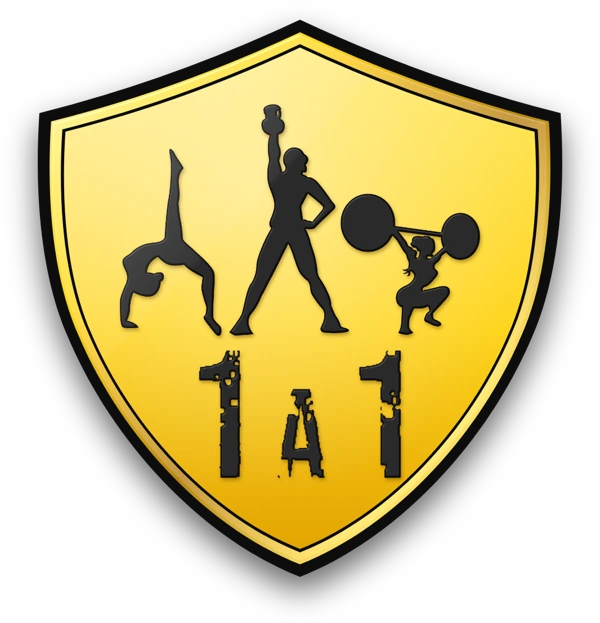
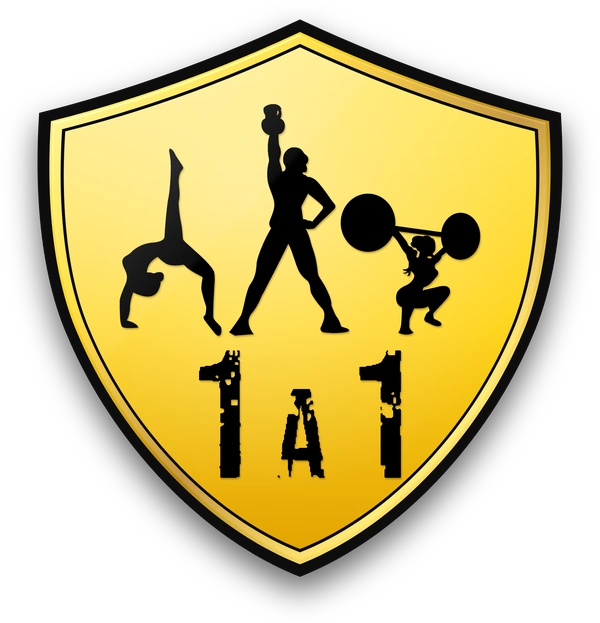
Escudo 1 a 1: figuras y 1 A 1 en negro intenso con silueta nítida
Claude-Session: https://claude.ai/code/session_01NkzjF1AwGu8vPrnnPT5pjp

diff --git a/index.html b/index.html
@@ -1249,14 +1249,14 @@ html,body{overflow-x:clip}
   <mask id="fv-wear" maskUnits="userSpaceOnUse" x="0" y="0" width="1000" height="1100"><rect width="1000" height="1100" fill="#fff"/><image href="fotos/agujeros.png" x="0" y="430" width="1000" height="400" preserveAspectRatio="none"/></mask>
 </defs></svg>
 <div class="fv-st fv-v1"><div class="fv-band"></div><div class="fv-in">
-  <div class="fv-fig"><img src="fotos/escudo-1a1-scuderia.webp?v=1" width="600" height="623" loading="lazy" decoding="async" alt="Escudo 1 a 1: un entrenador, un cliente"></div>
+  <div class="fv-fig"><img src="fotos/escudo-1a1-scuderia.webp?v=2" width="600" height="623" loading="lazy" decoding="async" alt="Escudo 1 a 1: un entrenador, un cliente"></div>
   <div class="fv-grid">
     <div class="fv-it"><div class="fv-n"><b class="fv-gr">140<small>m²</small></b></div><i class="fv-bar"></i><div class="fv-l">y nunca más de<br>2 personas a la vez</div></div>
     <div class="fv-it"><div class="fv-n"><b class="fv-gr">25<small>años</small></b></div><i class="fv-bar"></i><div class="fv-l">de experiencia como<br>entrenador personal</div></div>
     <div class="fv-it"><div class="fv-n"><b class="fv-gr">134</b><span class="fv-st5" role="img" aria-label="5 estrellas"><svg class="fv-s5" viewBox="0 0 24 24" aria-hidden="true"><use href="#fv-star"/></svg><svg class="fv-s5" viewBox="0 0 24 24" aria-hidden="true"><use href="#fv-star"/></svg><svg class="fv-s5" viewBox="0 0 24 24" aria-hidden="true"><use href="#fv-star"/></svg><svg class="fv-s5" viewBox="0 0 24 24" aria-hidden="true"><use href="#fv-star"/></svg><svg class="fv-s5" viewBox="0 0 24 24" aria-hidden="true"><use href="#fv-star"/></svg></span></div><i class="fv-bar"></i><div class="fv-l">reseñas de 5 estrellas<br>en Google</div></div>
     <div class="fv-it"><div class="fv-n"><b class="fv-gr">0</b></div><i class="fv-bar"></i><div class="fv-l">zapatos de la calle<br>en la sala</div></div>
   </div>
-  <div class="fv-fig fv-r"><img src="fotos/escudo-1a1-scuderia.webp?v=1" width="600" height="623" loading="lazy" decoding="async" alt=""></div>
+  <div class="fv-fig fv-r"><img src="fotos/escudo-1a1-scuderia.webp?v=2" width="600" height="623" loading="lazy" decoding="async" alt=""></div>
 </div></div>
 
 

diff --git a/fotos-origen/escudos-1a1-gen.py b/fotos-origen/escudos-1a1-gen.py
@@ -28,6 +28,7 @@ EXTRA = '''
 <linearGradient id="rainbow" x1="0" y1="0" x2="1" y2="0"><stop offset="0" stop-color="#ff2fb3"/><stop offset=".25" stop-color="#b04bff"/><stop offset=".45" stop-color="#18c8ff"/><stop offset=".65" stop-color="#2fe06b"/><stop offset=".82" stop-color="#ffd51f"/><stop offset="1" stop-color="#ff4a3a"/></linearGradient>
 <filter id="emb2" x="-5%" y="-5%" width="110%" height="110%"><feGaussianBlur in="SourceAlpha" stdDeviation="1.5" result="b"/><feSpecularLighting in="b" surfaceScale="3" specularConstant=".6" specularExponent="35" lighting-color="#fff" result="s"><feDistantLight azimuth="235" elevation="55"/></feSpecularLighting><feComposite in="s" in2="SourceAlpha" operator="in" result="s2"/><feComposite in="SourceGraphic" in2="s2" operator="arithmetic" k2="1" k3=".18" result="e"/><feDropShadow dx="2" dy="4" stdDeviation="3" flood-color="#7a5600" flood-opacity=".55"/></filter>
 <radialGradient id="hiH" cx="50%" cy="38%" r="65%"><stop offset="0" stop-color="#fff" stop-opacity=".16"/><stop offset=".6" stop-color="#fff" stop-opacity=".04"/><stop offset="1" stop-color="#000" stop-opacity=".35"/></radialGradient>
+<filter id="crisp" x="-5%" y="-5%" width="110%" height="110%"><feComponentTransfer in="SourceGraphic" result="c"><feFuncA type="linear" slope="1.6" intercept="-.25"/></feComponentTransfer><feDropShadow dx="1.5" dy="2.5" stdDeviation="1.2" flood-color="#6b4a00" flood-opacity=".45"/></filter>
 <pattern id="carbon" width="16" height="16" patternUnits="userSpaceOnUse"><rect width="16" height="16" fill="#16171a"/><rect width="8" height="8" fill="#26272c"/><rect x="8" y="8" width="8" height="8" fill="#26272c"/><rect width="8" height="3" fill="#33343a"/><rect x="8" y="8" width="3" height="8" fill="#33343a"/></pattern>
 <pattern id="stripes" width="28" height="28" patternUnits="userSpaceOnUse" patternTransform="rotate(35)"><rect width="28" height="28" fill="#0b0b0b"/><rect width="14" height="28" fill="#ffd51f"/></pattern>
 <filter id="emboss" x="-5%" y="-5%" width="110%" height="110%"><feGaussianBlur in="SourceAlpha" stdDeviation="2" result="b"/><feSpecularLighting in="b" surfaceScale="4" specularConstant=".9" specularExponent="30" lighting-color="#fff" result="s"><feDistantLight azimuth="235" elevation="50"/></feSpecularLighting><feComposite in="s" in2="SourceAlpha" operator="in" result="s2"/><feComposite in="SourceGraphic" in2="s2" operator="arithmetic" k2="1" k3=".55" result="e"/><feDropShadow dx="0" dy="3" stdDeviation="3" flood-color="#000" flood-opacity=".5"/></filter>
@@ -54,8 +55,8 @@ def laurel(side):
 
 V = {}
 # E · Scuderia
-m1, f1 = fig_at("#0b0b0b", 813, 468, 640, "emb2")
-m2, o1 = one_at("#0b0b0b", 953, 905, 360, "emb2")
+m1, f1 = fig_at("#000000", 813, 468, 640, "crisp")
+m2, o1 = one_at("#000000", 953, 905, 360, "crisp")
 V['e'] = (m1+m2, f'''<g filter="url(#shadow)">{S(1)} fill="#0b0b0b"/></g>
 {S(.955)} fill="url(#gold)" filter="url(#bevel)"/>
 {S(.912)} fill="#0b0b0b"/>
